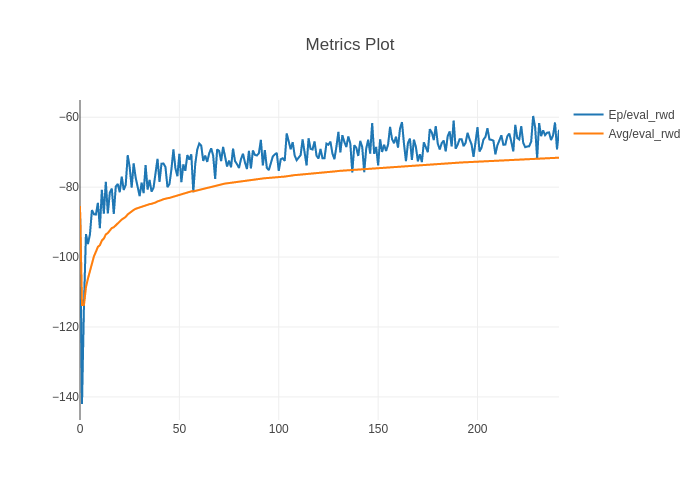
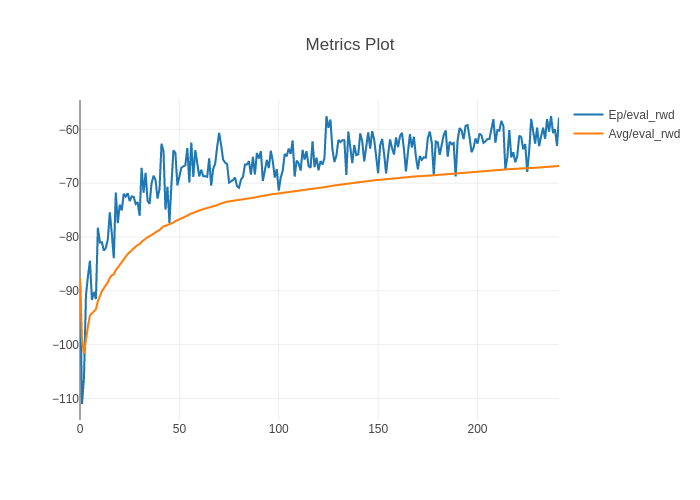
changed init weights of critic

diff --git a/MADDPG/modules/networks.py b/MADDPG/modules/networks.py
@@ -55,8 +55,8 @@ class Critic(nn.Module):
         self.fc1 = nn.Linear(self.args.n_q_obs+self.args.n_q_actions, self.args.hidden1)
         self.fc2 = nn.Linear(self.args.hidden1, self.args.hidden2)
         self.last = nn.Linear(self.args.hidden2, 1)
-        nn.init.uniform_(self.last.weight, -3 * 1e-3, 3 * 1e-3)
-        nn.init.uniform_(self.last.bias, -3 * 1e-3, 3 * 1e-3)
+        # nn.init.uniform_(self.last.weight, -3 * 1e-3, 3 * 1e-3)
+        # nn.init.uniform_(self.last.bias, -3 * 1e-3, 3 * 1e-3)
 
     def forward(self, obs, act):
         q_in = torch.cat((obs, act), dim=1)

diff --git a/MADDPG/README.md b/MADDPG/README.md
@@ -37,7 +37,7 @@ Since I used ```sacred``` and ```omniboard```, you can change hyperparameter wit
 
 ### Results
 
-Note that unlike mujoco environments, batch normalization is critical issue during training! Also reward normalization is essential.
+Note that unlike mujoco environments, batch normalization is critical issue during training! Also reward normalization is essential. Also the initial weights are important to bump up the performance..
 
 Every 5000 steps, 10 episodes of evaluation was preceded and recorded. The followings were from these evaluation results.
 
@@ -47,6 +47,10 @@ Every 5000 steps, 10 episodes of evaluation was preceded and recorded. The follo
 
 ![spread](https://github.com/yongjin-shin/rl_torch/blob/master/MADDPG/assets/spread.gif)
 
+![spread](https://github.com/yongjin-shin/rl_torch/blob/master/MADDPG/assets/spread_1.gif)
+
+![spread](https://github.com/yongjin-shin/rl_torch/blob/master/MADDPG/assets/spread_2.gif)
+
 ![spread_graph](https://github.com/yongjin-shin/rl_torch/blob/master/MADDPG/assets/spread.png)
 
 
@@ -54,6 +58,10 @@ Every 5000 steps, 10 episodes of evaluation was preceded and recorded. The follo
 **Predator Prey (simple_tag)**
 
 ![tag](https://github.com/yongjin-shin/rl_torch/blob/master/MADDPG/assets/tag.gif)
+
+![tag](https://github.com/yongjin-shin/rl_torch/blob/master/MADDPG/assets/tag_1.gif)
+
+![tag](https://github.com/yongjin-shin/rl_torch/blob/master/MADDPG/assets/tag_2.gif)
 
 ![tag_graph](https://github.com/yongjin-shin/rl_torch/blob/master/MADDPG/assets/tag.png)
 
